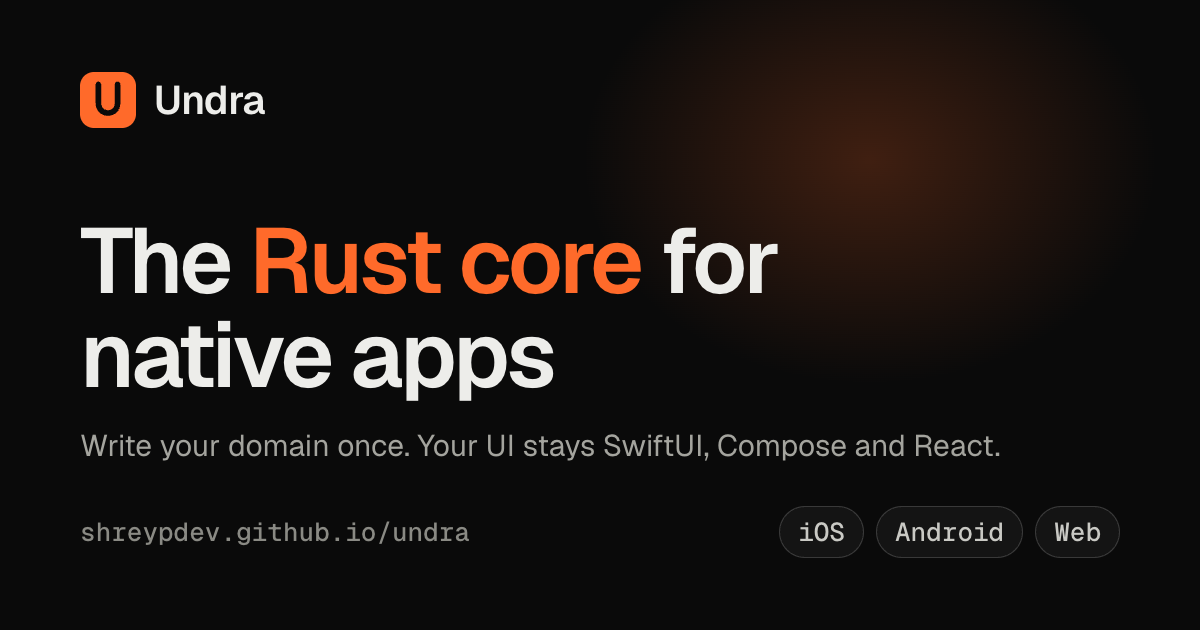
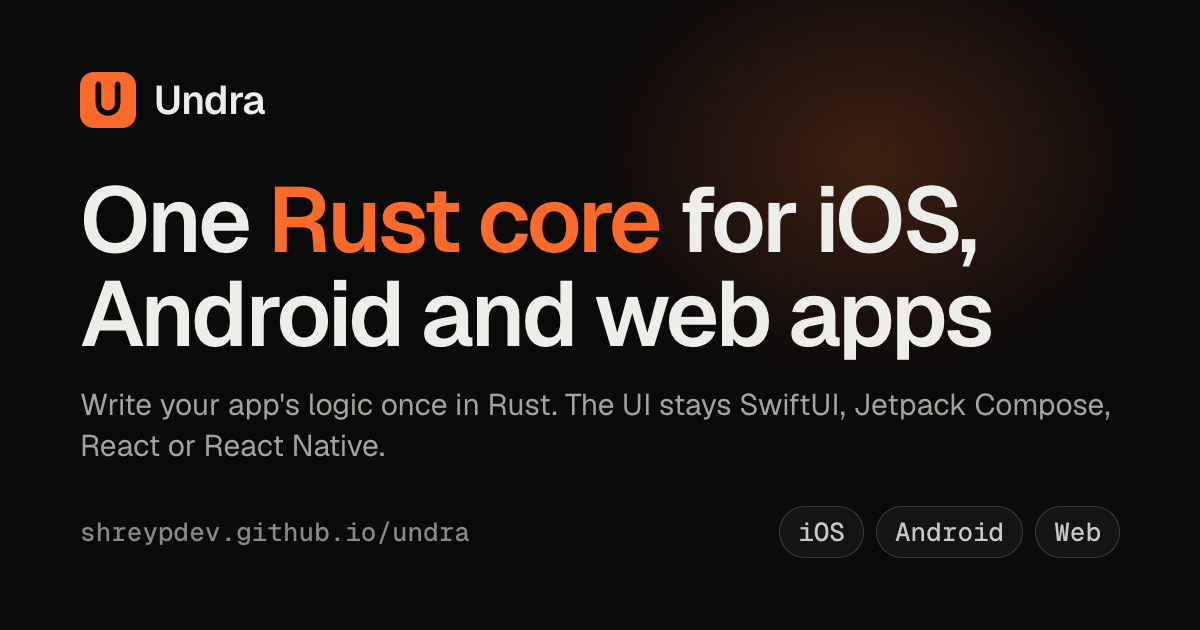
docs(site): the landing page says what Undra is and names the platforms
The hero's sub-line says what Undra is and for which platforms ("a Rust framework for iOS, Android
and web apps"), then that the UI stays native, naming Jetpack Compose (Compose alone also means
Docker Compose and Compose Multiplatform). Each screen of the diagram names its platform
(iOS · @Observable, Android · StateFlow, Web · useSignal, iOS + Android for React Native; on the
narrow variant iOS, Android, Web, iOS + Android under each title), "the boundary" is "the language
boundary", and both descriptions say so. The three steps, the demo's "Applied (merged per frame)",
"Calling Rust is cheap." and the How it works heading and cards say what happens in plain words.
Title and social tags name the platforms, and the social card (site/og, rendered with local Chrome)
says the same. README, the docs index and getting-started name platform and toolkit together at
the first mention.

The layout forced one change: the wide diagram's labels are 10.5px (were 12.5px) so that
"Android · StateFlow" and "iOS + Android" clear the "Compose" and "React Native" titles. The
narrow variant's call line moved down 6px to make room for the platform line. 332 words of the
350.

Changed region(s): [[0.0617, 0.2714, 0.925, 0.6635], [0.0617, 0.6937, 0.8325, 0.7238]]

diff --git a/site/index.html b/site/index.html
@@ -3,21 +3,21 @@
 <head>
 <meta charset="utf-8">
 <meta name="viewport" content="width=device-width, initial-scale=1">
-<title>Undra: the Rust core for native apps</title>
+<title>Undra: one Rust core for iOS, Android and web apps</title>
 <meta name="description" content="Undra is a Rust framework for sharing business logic across iOS, Android and web. It generates Swift, Kotlin and TypeScript; your UI stays native.">
 <link rel="canonical" href="https://shreypdev.github.io/undra/">
 <meta property="og:type" content="website">
 <meta property="og:site_name" content="Undra">
-<meta property="og:title" content="Undra: the Rust core for native apps">
-<meta property="og:description" content="Write your domain once in Rust. Undra generates native Swift, Kotlin and TypeScript; your UI stays SwiftUI, Compose, React or React Native.">
+<meta property="og:title" content="Undra: one Rust core for iOS, Android and web apps">
+<meta property="og:description" content="Write your app&#39;s logic once in Rust. Undra generates Swift, Kotlin and TypeScript; the UI stays SwiftUI, Jetpack Compose, React or React Native.">
 <meta property="og:url" content="https://shreypdev.github.io/undra/">
 <meta property="og:image" content="https://shreypdev.github.io/undra/assets/og.png">
 <meta property="og:image:width" content="1200">
 <meta property="og:image:height" content="630">
 <meta property="og:image:alt" content="Undra: the Rust core for native apps">
 <meta name="twitter:card" content="summary_large_image">
-<meta name="twitter:title" content="Undra: the Rust core for native apps">
-<meta name="twitter:description" content="Write your domain once in Rust. Undra generates native Swift, Kotlin and TypeScript; your UI stays SwiftUI, Compose, React or React Native.">
+<meta name="twitter:title" content="Undra: one Rust core for iOS, Android and web apps">
+<meta name="twitter:description" content="Write your app&#39;s logic once in Rust. Undra generates Swift, Kotlin and TypeScript; the UI stays SwiftUI, Jetpack Compose, React or React Native.">
 <meta name="twitter:image" content="https://shreypdev.github.io/undra/assets/og.png">
 <script type="application/ld+json">
 {"@context":"https://schema.org","@graph":[
@@ -70,7 +70,7 @@
 
     <div class="hero-grid">
       <div>
-        <p class="hero-sub">Your app's logic, state and data in one Rust core, under SwiftUI, Compose, React and React Native.</p>
+        <p class="hero-sub"><span class="hero-lead">Undra is a Rust framework for iOS, Android and web apps.</span> Write your logic, state and data once; the UI stays native: SwiftUI, Jetpack Compose, React or React Native.</p>
         <div class="cta-row">
           <a class="btn btn-primary" href="docs/getting-started.html">Get started <svg viewBox="0 0 16 16" fill="none" stroke="currentColor" stroke-width="1.8" stroke-linecap="round" stroke-linejoin="round" aria-hidden="true"><path d="M3 8h10M9 4l4 4-4 4"/></svg></a>
           <a class="btn btn-ghost" href="#live">See it live</a>
@@ -92,7 +92,7 @@
         </div>
 <svg class="dg dg-wide is-static" viewBox="0 0 1200 608" role="img" aria-labelledby="dgw-t dgw-d" data-by="268" focusable="false">
     <title id="dgw-t">How Undra works</title>
-    <desc id="dgw-d">Four native UIs (SwiftUI, Compose, React, React Native) sit above the Rust core. A write from any UI crosses the boundary once per transaction. The core commits one binary change-set, which fans out to every UI's local mirror. Reads never cross the boundary.</desc>
+    <desc id="dgw-d">Four native UIs (SwiftUI on iOS, Jetpack Compose on Android, React on the web, React Native on iOS and Android) sit above the Rust core. A write from any UI crosses the language boundary once per transaction. The core commits one binary change-set, which fans out to every UI's local mirror. Reads never cross the language boundary.</desc>
     <defs>
       <radialGradient id="dgw-halo" cx="50%" cy="50%" r="50%"><stop offset="0" style="stop-color:var(--accent);stop-opacity:.34"/><stop offset="1" style="stop-color:var(--accent);stop-opacity:0"/></radialGradient>
       <radialGradient id="dgw-core" cx="50%" cy="0%" r="75%"><stop offset="0" style="stop-color:var(--accent);stop-opacity:.42"/><stop offset="1" style="stop-color:var(--accent);stop-opacity:0"/></radialGradient>
@@ -123,14 +123,14 @@
       <g transform="translate(20,257)"><rect class="chip-bg" width="146" height="22" rx="11"/><circle cx="11" cy="11" r="3" class="bnum"/><text class="chip-tx mono" x="21" y="15" style="font-size:11px">reads never cross</text></g>
       <g transform="translate(228,257)"><rect class="chip-bg" width="216" height="22" rx="11"/><circle cx="11" cy="11" r="3" class="bnum"/><text class="chip-tx mono" x="21" y="15" style="font-size:11px">one crossing per transaction</text></g>
       <g transform="translate(524,257)"><rect class="chip-bg" width="152" height="22" rx="11"/><circle cx="11" cy="11" r="3" class="bnum"/><text class="chip-tx mono" x="21" y="15" style="font-size:11px">binary change-sets</text></g>
-      <text class="h-lbl mono" x="1180" y="272" text-anchor="end" style="font-size:10.5px">the boundary</text>
+      <text class="h-lbl mono" x="1180" y="272" text-anchor="end" style="font-size:10.5px">the language boundary</text>
     </g>
     <g data-node="0">
       <rect class="halo" data-role="halo" x="52" y="-6" width="304" height="262" fill="url(#dgw-halo)"/>
       <rect class="frame" x="80" y="28" width="248" height="194" rx="18"/>
       <rect class="frame-hot" data-role="hot" x="80" y="28" width="248" height="194" rx="18"/>
       <text class="t-title" x="98" y="64">SwiftUI</text>
-      <text class="t-tag mono" x="310" y="63" text-anchor="end">@Observable</text>
+      <text class="t-tag mono" x="310" y="63" text-anchor="end">iOS · @Observable</text>
       <g data-role="call"><rect class="call-bg" x="96" y="78" width="155" height="24" rx="7"/><text class="call-tx mono" x="106" y="94.5">add(title: &quot;milk&quot;)</text></g>
       <text data-role="idle" class="t-dim mono" x="98" y="95" opacity="0">reads stay local</text>
       <text data-role="badge" data-before="1 left" data-after="2 left" class="t-badge mono" x="310" y="95" text-anchor="end">2 left</text>
@@ -146,7 +146,7 @@
       <rect class="frame" x="344" y="28" width="248" height="194" rx="18"/>
       <rect class="frame-hot" data-role="hot" x="344" y="28" width="248" height="194" rx="18"/>
       <text class="t-title" x="362" y="64">Compose</text>
-      <text class="t-tag mono" x="574" y="63" text-anchor="end">StateFlow</text>
+      <text class="t-tag mono" x="574" y="63" text-anchor="end">Android · StateFlow</text>
       <g data-role="call" opacity="0"><rect class="call-bg" x="360" y="78" width="103" height="24" rx="7"/><text class="call-tx mono" x="370" y="94.5">add(&quot;milk&quot;)</text></g>
       <text data-role="idle" class="t-dim mono" x="362" y="95">reads stay local</text>
       <text data-role="badge" data-before="1 left" data-after="2 left" class="t-badge mono" x="574" y="95" text-anchor="end">2 left</text>
@@ -162,7 +162,7 @@
       <rect class="frame" x="608" y="28" width="248" height="194" rx="18"/>
       <rect class="frame-hot" data-role="hot" x="608" y="28" width="248" height="194" rx="18"/>
       <text class="t-title" x="626" y="64">React</text>
-      <text class="t-tag mono" x="838" y="63" text-anchor="end">useSignal</text>
+      <text class="t-tag mono" x="838" y="63" text-anchor="end">Web · useSignal</text>
       <g data-role="call" opacity="0"><rect class="call-bg" x="624" y="78" width="103" height="24" rx="7"/><text class="call-tx mono" x="634" y="94.5">add(&quot;milk&quot;)</text></g>
       <text data-role="idle" class="t-dim mono" x="626" y="95">reads stay local</text>
       <text data-role="badge" data-before="1 left" data-after="2 left" class="t-badge mono" x="838" y="95" text-anchor="end">2 left</text>
@@ -178,7 +178,7 @@
       <rect class="frame" x="872" y="28" width="248" height="194" rx="18"/>
       <rect class="frame-hot" data-role="hot" x="872" y="28" width="248" height="194" rx="18"/>
       <text class="t-title" x="890" y="64">React Native</text>
-      <text class="t-tag mono" x="1102" y="63" text-anchor="end">useSignal</text>
+      <text class="t-tag mono" x="1102" y="63" text-anchor="end">iOS + Android</text>
       <g data-role="call" opacity="0"><rect class="call-bg" x="888" y="78" width="103" height="24" rx="7"/><text class="call-tx mono" x="898" y="94.5">add(&quot;milk&quot;)</text></g>
       <text data-role="idle" class="t-dim mono" x="890" y="95">reads stay local</text>
       <text data-role="badge" data-before="1 left" data-after="2 left" class="t-badge mono" x="1102" y="95" text-anchor="end">2 left</text>
@@ -215,7 +215,7 @@
   </svg>
 <svg class="dg dg-narrow is-static" viewBox="0 0 360 642" role="img" aria-labelledby="dgn-t dgn-d" data-by="340" focusable="false">
     <title id="dgn-t">How Undra works</title>
-    <desc id="dgn-d">Four native UIs (SwiftUI, Compose, React, React Native) sit above the Rust core. A write from any UI crosses the boundary once per transaction. The core commits one binary change-set, which fans out to every UI's local mirror. Reads never cross the boundary.</desc>
+    <desc id="dgn-d">Four native UIs (SwiftUI on iOS, Jetpack Compose on Android, React on the web, React Native on iOS and Android) sit above the Rust core. A write from any UI crosses the language boundary once per transaction. The core commits one binary change-set, which fans out to every UI's local mirror. Reads never cross the language boundary.</desc>
     <defs>
       <radialGradient id="dgn-halo" cx="50%" cy="50%" r="50%"><stop offset="0" style="stop-color:var(--accent);stop-opacity:.34"/><stop offset="1" style="stop-color:var(--accent);stop-opacity:0"/></radialGradient>
       <radialGradient id="dgn-core" cx="50%" cy="0%" r="75%"><stop offset="0" style="stop-color:var(--accent);stop-opacity:.42"/><stop offset="1" style="stop-color:var(--accent);stop-opacity:0"/></radialGradient>
@@ -252,9 +252,10 @@
       <rect class="frame" x="8" y="14" width="132" height="138" rx="14"/>
       <rect class="frame-hot" data-role="hot" x="8" y="14" width="132" height="138" rx="14"/>
       <text class="t-title" x="19" y="38" style="font-size:13px">SwiftUI</text>
+      <text class="t-tag mono" x="19" y="51" style="font-size:9.5px">iOS</text>
       <text data-role="badge" data-before="1" data-after="2" class="t-badge mono" x="128" y="38" text-anchor="end" style="font-size:12px;fill:var(--accent)">2</text>
-      <g data-role="call"><text class="call-tx mono" x="19" y="57" style="font-size:10.5px">store.add()</text></g>
-      <text data-role="idle" class="t-dim mono" x="19" y="57" style="font-size:10.5px" opacity="0">local reads</text>
+      <g data-role="call"><text class="call-tx mono" x="19" y="63" style="font-size:10.5px">store.add()</text></g>
+      <text data-role="idle" class="t-dim mono" x="19" y="63" style="font-size:10.5px" opacity="0">local reads</text>
       <rect class="mirror" x="16" y="68" width="116" height="76" rx="8"/>
       <g class="row"><circle class="check check-on" cx="30" cy="86" r="4.6"/><rect class="bar" x="42" y="82.5" width="81" height="7" rx="3.5"/></g>
       <g class="row"><circle class="check" cx="30" cy="110" r="4.6"/><rect class="bar" x="42" y="106.5" width="64" height="7" rx="3.5"/></g>
@@ -265,9 +266,10 @@
       <rect class="frame" x="220" y="14" width="132" height="138" rx="14"/>
       <rect class="frame-hot" data-role="hot" x="220" y="14" width="132" height="138" rx="14"/>
       <text class="t-title" x="231" y="38" style="font-size:13px">Compose</text>
+      <text class="t-tag mono" x="231" y="51" style="font-size:9.5px">Android</text>
       <text data-role="badge" data-before="1" data-after="2" class="t-badge mono" x="340" y="38" text-anchor="end" style="font-size:12px;fill:var(--accent)">2</text>
-      <g data-role="call" opacity="0"><text class="call-tx mono" x="231" y="57" style="font-size:10.5px">store.add()</text></g>
-      <text data-role="idle" class="t-dim mono" x="231" y="57" style="font-size:10.5px">local reads</text>
+      <g data-role="call" opacity="0"><text class="call-tx mono" x="231" y="63" style="font-size:10.5px">store.add()</text></g>
+      <text data-role="idle" class="t-dim mono" x="231" y="63" style="font-size:10.5px">local reads</text>
       <rect class="mirror" x="228" y="68" width="116" height="76" rx="8"/>
       <g class="row"><circle class="check check-on" cx="242" cy="86" r="4.6"/><rect class="bar" x="254" y="82.5" width="81" height="7" rx="3.5"/></g>
       <g class="row"><circle class="check" cx="242" cy="110" r="4.6"/><rect class="bar" x="254" y="106.5" width="64" height="7" rx="3.5"/></g>
@@ -278,9 +280,10 @@
       <rect class="frame" x="8" y="168" width="132" height="138" rx="14"/>
       <rect class="frame-hot" data-role="hot" x="8" y="168" width="132" height="138" rx="14"/>
       <text class="t-title" x="19" y="192" style="font-size:13px">React</text>
+      <text class="t-tag mono" x="19" y="205" style="font-size:9.5px">Web</text>
       <text data-role="badge" data-before="1" data-after="2" class="t-badge mono" x="128" y="192" text-anchor="end" style="font-size:12px;fill:var(--accent)">2</text>
-      <g data-role="call" opacity="0"><text class="call-tx mono" x="19" y="211" style="font-size:10.5px">store.add()</text></g>
-      <text data-role="idle" class="t-dim mono" x="19" y="211" style="font-size:10.5px">local reads</text>
+      <g data-role="call" opacity="0"><text class="call-tx mono" x="19" y="217" style="font-size:10.5px">store.add()</text></g>
+      <text data-role="idle" class="t-dim mono" x="19" y="217" style="font-size:10.5px">local reads</text>
       <rect class="mirror" x="16" y="222" width="116" height="76" rx="8"/>
       <g class="row"><circle class="check check-on" cx="30" cy="240" r="4.6"/><rect class="bar" x="42" y="236.5" width="81" height="7" rx="3.5"/></g>
       <g class="row"><circle class="check" cx="30" cy="264" r="4.6"/><rect class="bar" x="42" y="260.5" width="64" height="7" rx="3.5"/></g>
@@ -291,9 +294,10 @@
       <rect class="frame" x="220" y="168" width="132" height="138" rx="14"/>
       <rect class="frame-hot" data-role="hot" x="220" y="168" width="132" height="138" rx="14"/>
       <text class="t-title" x="231" y="192" style="font-size:13px">React Native</text>
+      <text class="t-tag mono" x="231" y="205" style="font-size:9.5px">iOS + Android</text>
       <text data-role="badge" data-before="1" data-after="2" class="t-badge mono" x="340" y="192" text-anchor="end" style="font-size:12px;fill:var(--accent)">2</text>
-      <g data-role="call" opacity="0"><text class="call-tx mono" x="231" y="211" style="font-size:10.5px">store.add()</text></g>
-      <text data-role="idle" class="t-dim mono" x="231" y="211" style="font-size:10.5px">local reads</text>
+      <g data-role="call" opacity="0"><text class="call-tx mono" x="231" y="217" style="font-size:10.5px">store.add()</text></g>
+      <text data-role="idle" class="t-dim mono" x="231" y="217" style="font-size:10.5px">local reads</text>
       <rect class="mirror" x="228" y="222" width="116" height="76" rx="8"/>
       <g class="row"><circle class="check check-on" cx="242" cy="240" r="4.6"/><rect class="bar" x="254" y="236.5" width="81" height="7" rx="3.5"/></g>
       <g class="row"><circle class="check" cx="242" cy="264" r="4.6"/><rect class="bar" x="254" y="260.5" width="64" height="7" rx="3.5"/></g>
@@ -327,9 +331,9 @@
           <li><i></i> <span>change-sets</span></li>
         </ul>
         <ol class="steps" aria-label="What the animation shows">
-          <li><b>Write</b><span>Once per transaction.</span></li>
-          <li><b>Commit</b><span>One change-set.</span></li>
-          <li><b>Apply</b><span>Every mirror.</span></li>
+          <li><b>Write</b><span>A tap calls Rust once.</span></li>
+          <li><b>Commit</b><span>Rust answers with one change-set.</span></li>
+          <li><b>Apply</b><span>Every screen's copy updates.</span></li>
         </ol>
       </div>
     </div>
@@ -352,7 +356,7 @@
       <div class="live-side">
         <dl class="counters" aria-label="Live measurements from the demo">
           <div data-stress hidden><dt>Generated</dt><dd><span class="num" data-stat="gen">–</span><small>/ s</small></dd></div>
-          <div><dt>Applied after merge</dt><dd><span class="num" data-stat="rate">–</span><small>/ s</small><small class="sub" data-stat="merge"></small></dd></div>
+          <div><dt>Applied (merged per frame)</dt><dd><span class="num" data-stat="rate">–</span><small>/ s</small><small class="sub" data-stat="merge"></small></dd></div>
           <div><dt>Apply, average</dt><dd><span class="num" data-stat="avg">–</span><small class="sub" data-stat="avg-of"></small></dd></div>
           <div><dt>Slowest drain</dt><dd><span class="num" data-stat="max">–</span></dd></div>
           <div data-stress hidden><dt>Dropped frames</dt><dd><span class="num" data-stat="dropped">–</span></dd></div>
@@ -374,7 +378,7 @@
 <section class="section" id="numbers">
   <div class="wrap">
     <span class="kicker reveal">Numbers</span>
-    <h2 class="h2 reveal">The boundary is cheap. <em>Measured,</em> not promised.</h2>
+    <h2 class="h2 reveal">Calling Rust is cheap. <em>Measured,</em> not promised.</h2>
     <p class="lede reveal" data-d="1">Every number links to its source.</p>
     <!-- numbers:start -->
     <div class="stats" role="group" aria-label="Benchmark results, measured on Apple M5 Pro, 18 cores, macOS 26.5">
@@ -407,11 +411,11 @@
 <section class="section" id="how">
   <div class="wrap">
     <span class="kicker reveal">How it works</span>
-    <h2 class="h2 reveal">Describe once. Generate native. <em>Write once per change.</em></h2>
+    <h2 class="h2 reveal">Write the core. Generate the API. <em>Keep your screens.</em></h2>
     <div class="how">
-      <article class="how-card reveal"><span class="n" aria-hidden="true"></span><h3>Describe it</h3><p>Rust is the source of truth.</p></article>
-      <article class="how-card reveal" data-d="1"><span class="n" aria-hidden="true"></span><h3>Generate it</h3><p>Swift, Kotlin, TypeScript.</p></article>
-      <article class="how-card reveal" data-d="2"><span class="n" aria-hidden="true"></span><h3>Write once</h3><p>Reads stay local.</p></article>
+      <article class="how-card reveal"><span class="n" aria-hidden="true"></span><h3>Write the core</h3><p>Your logic and state, in Rust.</p></article>
+      <article class="how-card reveal" data-d="1"><span class="n" aria-hidden="true"></span><h3>Generate the API</h3><p>Swift, Kotlin and TypeScript.</p></article>
+      <article class="how-card reveal" data-d="2"><span class="n" aria-hidden="true"></span><h3>Keep your screens</h3><p>Reads are local; a change crosses once.</p></article>
     </div>
     <details class="reveal-code">
       <summary>Show the generated code</summary>

diff --git a/site/docs/index.html b/site/docs/index.html
@@ -65,7 +65,7 @@
 <h2 id="where-to-start">Where to start<a class="anchor" href="#where-to-start" aria-label="Link to this section">#</a></h2>
 <ul><li><strong>New here?</strong> <a href="getting-started.html">Getting started</a> installs the toolchain and CLI, scaffolds a project, runs the live dev loop and puts an app on each platform.</li><li><strong>Want a working example of a login, a paged list or an offline queue?</strong> The <a href="cookbook/">cookbook</a> has each as a tested recipe, and <a href="sample.html">Fieldbook</a> puts them together in one app.</li><li><strong>Writing a core?</strong> <a href="concepts.html">Core concepts</a> covers stores, signals, computeds and keyed lists. <a href="queries.html">Queries &amp; mutations</a> covers the data layer, and <a href="ports.html">Ports &amp; adapters</a> covers everything that touches the outside world. <a href="objects.html">Objects</a>, <a href="callbacks.html">host callbacks</a>, <a href="types.html">types</a> and <a href="generics.html">generic functions, objects and stores</a> cover what else crosses the boundary.</li><li><strong>Data that arrives or grows?</strong> <a href="paging.html">Paging and lazy lists</a>, <a href="polling.html">polling</a>, <a href="realtime.html">WebSocket and server-sent events</a> and the <a href="db.html">local database</a>.</li><li><strong>Testing, shipping, running?</strong> <a href="testing.html">Testing your app</a>, <a href="updates.html">Shipping an update</a>, <a href="reviewing-generated-code.html">Reviewing generated code</a>, <a href="web.html">workers and crash recovery</a> on the web, <a href="production.html">Operating in production</a> (crash reports, background runs, the size of the shipped core), and <a href="several-cores.html">one core or several</a>.</li><li><strong>Fitting it into what you have?</strong> <a href="bazel.html">Bazel</a> builds the core and its bindings in your graph, and <a href="cookbook/network-stack.html">your network stack</a> (OkHttp, URLSession, fetch) carries the core's requests.</li><li><strong>Moving an existing app?</strong> The guides <a href="cookbook/from-kmp.html">from Kotlin Multiplatform</a> and <a href="cookbook/from-uniffi.html">from UniFFI</a>, and <a href="cookbook/ios-15-16.html">supporting iOS 15 and 16</a>.</li><li><strong>Looking something up?</strong> <a href="cli.html">The CLI</a> lists every command and flag. <a href="architecture.html">Architecture</a> explains the schema, the generators, the wire and the twelve rules. The API overviews show what a record, error, store or port looks like in <a href="api-swift.html">Swift</a>, <a href="api-kotlin.html">Kotlin</a> and <a href="api-typescript.html">TypeScript</a>.</li></ul>
 <h2 id="the-idea-in-four-sentences">The idea in four sentences<a class="anchor" href="#the-idea-in-four-sentences" aria-label="Link to this section">#</a></h2>
-<p>You write your domain in Rust and mark it with a handful of attributes. Undra generates idiomatic Swift, Kotlin and TypeScript from the schema those attributes produce, so the UI stays SwiftUI, Compose, React or React Native. Each platform keeps a local mirror of your state, so reads never cross the language boundary. A write crosses once per transaction, and the core answers with one compact binary change-set that patches every mirror.</p>
+<p>You write your domain in Rust and mark it with a handful of attributes. Undra generates idiomatic Swift, Kotlin and TypeScript from the schema those attributes produce, so the UI stays SwiftUI on iOS, Jetpack Compose on Android, React on the web, and React Native. Each platform keeps a local mirror of your state, so reads never cross the language boundary. A write crosses once per transaction, and the core answers with one compact binary change-set that patches every mirror.</p>
 <div class="callout"><p><strong>Where these pages come from.</strong> Everything here is digested from the repository: the README, the specification in <code>docs/SPEC.md</code>, the onboarding guide, the benchmark results and the playground app. When a page and the spec disagree, the spec wins; the <a href="https://github.com/shreypdev/undra" rel="noopener">repository</a> is the record.</p>
 </div>
 <h2 id="a-note-on-numbers">A note on numbers<a class="anchor" href="#a-note-on-numbers" aria-label="Link to this section">#</a></h2>

diff --git a/site/assets/home.css b/site/assets/home.css
@@ -24,6 +24,7 @@
 .hero-grid > * { min-width: 0; }
 @media (min-width: 900px) { .hero-grid { grid-template-columns: minmax(0, 1fr) minmax(0, 1.05fr); gap: 56px; } }
 .hero-sub { margin: 0; font-size: clamp(1.1rem, 1.6vw, 1.3rem); color: var(--text-2); max-width: 36ch; text-wrap: balance; }
+.hero-lead { display: block; margin-bottom: .4em; color: var(--text); font-weight: 500; }
 .hero-grid .cta-row { margin-top: 22px; }
 .install { text-align: left; }
 .install .tabs-head { display: flex; margin-bottom: 10px; }
@@ -59,7 +60,7 @@
 .dg .mirror { fill: var(--bg); stroke: var(--line); }
 .dg .sep { stroke: var(--line); }
 .dg .t-title { fill: var(--text); font-size: 19px; font-weight: 600; letter-spacing: -.01em; }
-.dg .t-tag { fill: var(--text-3); font-size: 12.5px; }
+.dg .t-tag { fill: var(--text-3); font-size: 10.5px; }
 .dg .t-row { fill: var(--text-2); font-size: 14px; }
 .dg .t-dim { fill: var(--text-3); font-size: 12.5px; }
 .dg .t-badge { fill: var(--text-2); font-size: 13px; font-weight: 600; }

diff --git a/site/docs/getting-started.html b/site/docs/getting-started.html
@@ -102,7 +102,7 @@ undra doctor      # prints what is missing, with the fix</code></pre></div>
 cargo install --path crates/undra-cli    # the `undra` command
 source scripts/env.sh                   # PATH, JDK and Kotlin jars, Xcode fallback, per shell</code></pre></div>
 <h2 id="3-create-a-project">3. Create a project<a class="anchor" href="#3-create-a-project" aria-label="Link to this section">#</a></h2>
-<div class="code"><div class="code-bar"><span><span class="lang">bash</span></span></div><pre><code data-lang="bash">undra init myapp                        # core + SwiftUI + Compose + React shells
+<div class="code"><div class="code-bar"><span><span class="lang">bash</span></span></div><pre><code data-lang="bash">undra init myapp                        # core + shells: SwiftUI on iOS, Jetpack Compose on Android, React on the web
 undra init myapp --platforms ios,web    # only some of them
 undra init myapp --id dev.acme.myapp    # application id / bundle identifier
 cd myapp</code></pre></div>

diff --git a/site/og/index.html b/site/og/index.html
@@ -28,8 +28,8 @@ p { margin-top: 24px; font-size: 30px; line-height: 1.35; color: #a4a49e; max-wi
 <div class="glow"></div>
 <div class="card">
   <div class="brand"><svg viewBox="0 0 32 32" aria-hidden="true"><rect width="32" height="32" rx="8" fill="#ff6a2a"/><path d="M10.5 7v11a5.5 5.5 0 0 0 11 0V7" fill="none" stroke="#0a0a0a" stroke-width="3.2" stroke-linecap="round" stroke-linejoin="round"/></svg>Undra</div>
-  <h1>The <span>Rust core</span> for native apps</h1>
-  <p>Write your domain once. Your UI stays SwiftUI, Compose and React.</p>
+  <h1>One <span>Rust core</span> for iOS, Android and web apps</h1>
+  <p>Write your app's logic once in Rust. The UI stays SwiftUI, Jetpack Compose, React or React Native.</p>
   <div class="foot"><span>shreypdev.github.io/undra</span><div class="chips"><i>iOS</i><i>Android</i><i>Web</i></div></div>
 </div>
 </body>

diff --git a/README.md b/README.md
@@ -10,8 +10,8 @@
 
 Undra owns everything **under the pixels** of your iOS, Android and web apps (domain
 logic, reactive state, the data layer, persistence, and the dev loop) while the UI stays
-100% native: SwiftUI, Jetpack Compose, React and React Native, written by hand, the way
-platform engineers want to write them.
+100% native: SwiftUI on iOS, Jetpack Compose on Android, React on the web, and React
+Native, written by hand, the way platform engineers want to write them.
 
 It is the opposite of a cross-platform UI framework. Your screens never leave the
 platform. Your *logic* stops being written three times.
